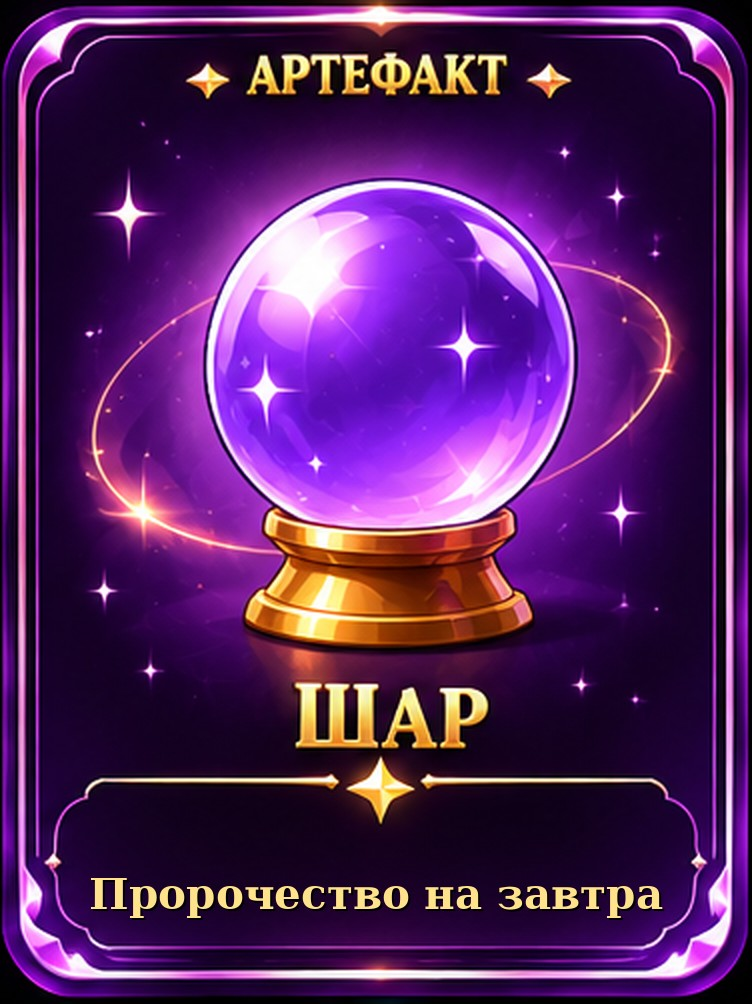
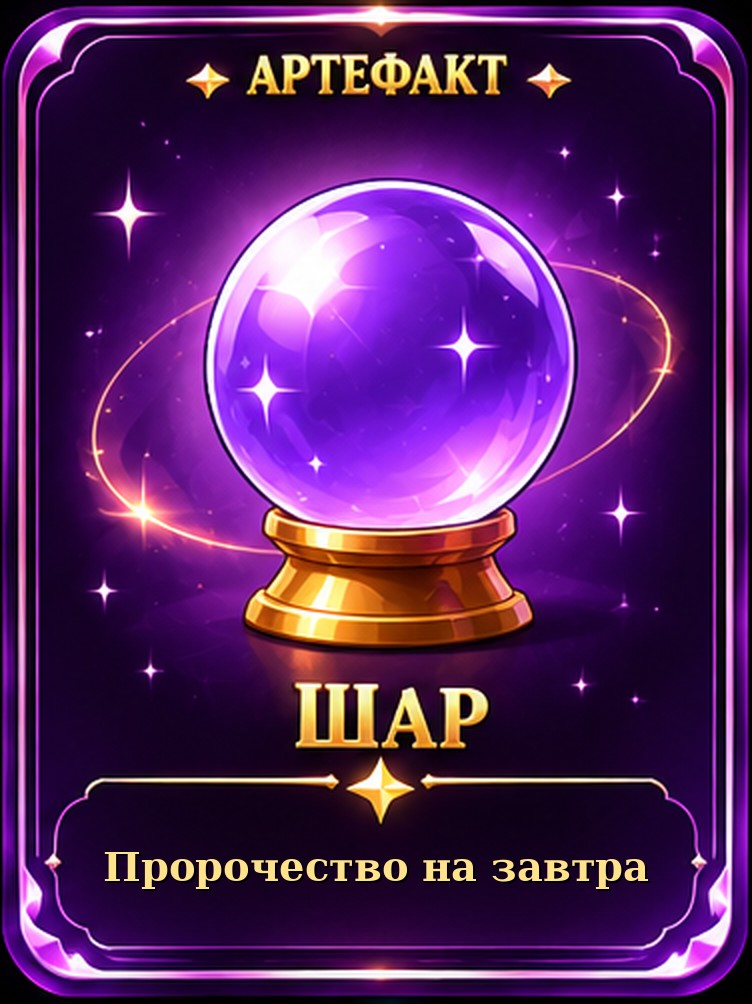
Дары: текст на карточках третьего листа по центру рамки; в истории вручения не склоняем название и не выдумываем свойства
Claude-Session: https://claude.ai/code/session_0134NWPStwGwzkx1hiYgLEpU

Changed region(s): [[0.1223, 0.8337, 0.887, 0.9263]]

diff --git a/app.py b/app.py
@@ -1900,7 +1900,8 @@ def give_gift(peer_id, forced_user=None):
         ты раз в три дня даришь одному участнику беседы волшебный артефакт. сегодня шар выбрал этого человека.
         артефакт: {a['name']} — это {a['story']}.
         торжественно и смешно объясни, почему шар выбрал именно этого человека (придумай забавную причину), и вручи артефакт.
-        что дает артефакт, не пересказывай, это напишут отдельно. настроение: {tone}.
+        что дает артефакт, не пересказывай и не придумывай другие свойства, это напишут отдельно.
+        сам артефакт по названию не называй (название уже есть в заголовке), говори «эта вещица» или «этот артефакт». настроение: {tone}.
         2 коротких предложения, обращение на ты, имя не пиши.
         пиши без рода: не используй слова, по которым видно, парень это или девушка (никаких «получил/получила», «рад/рада», «милый/милая»).
         """, "вручи дар.", max_sentences=2, max_chars=260, names=(name, last_name))
